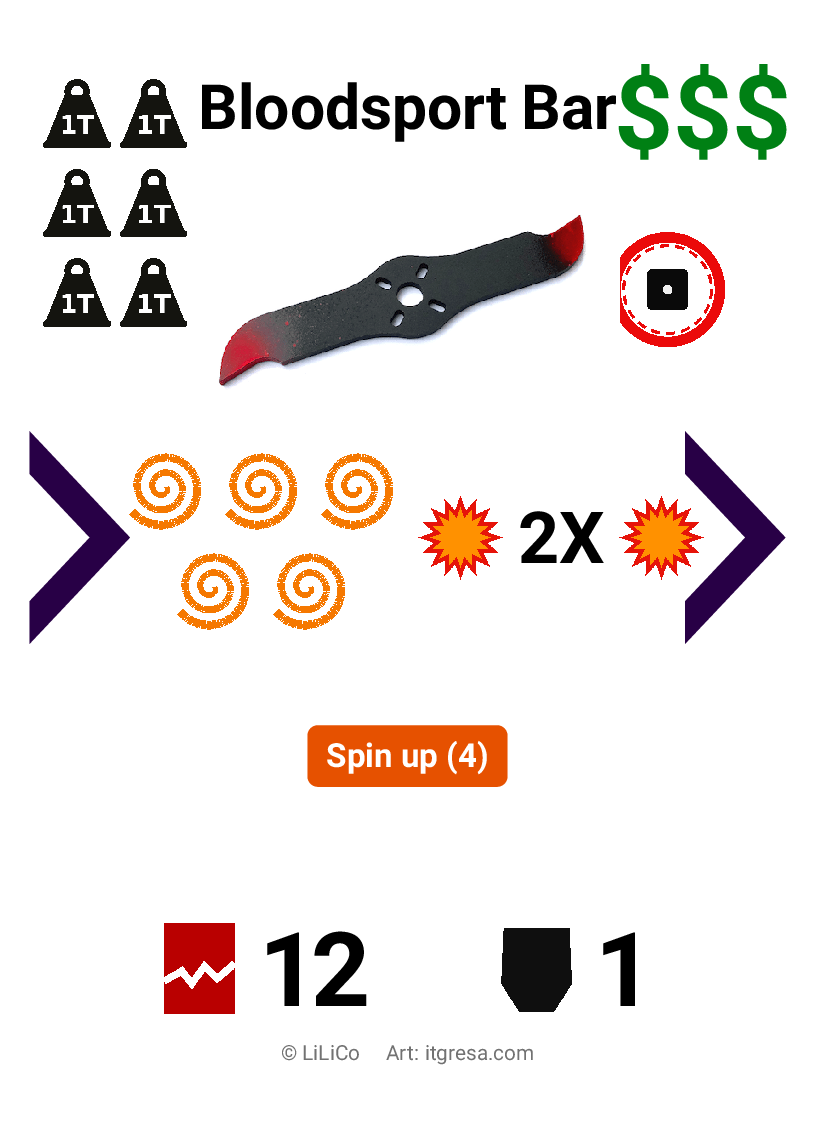
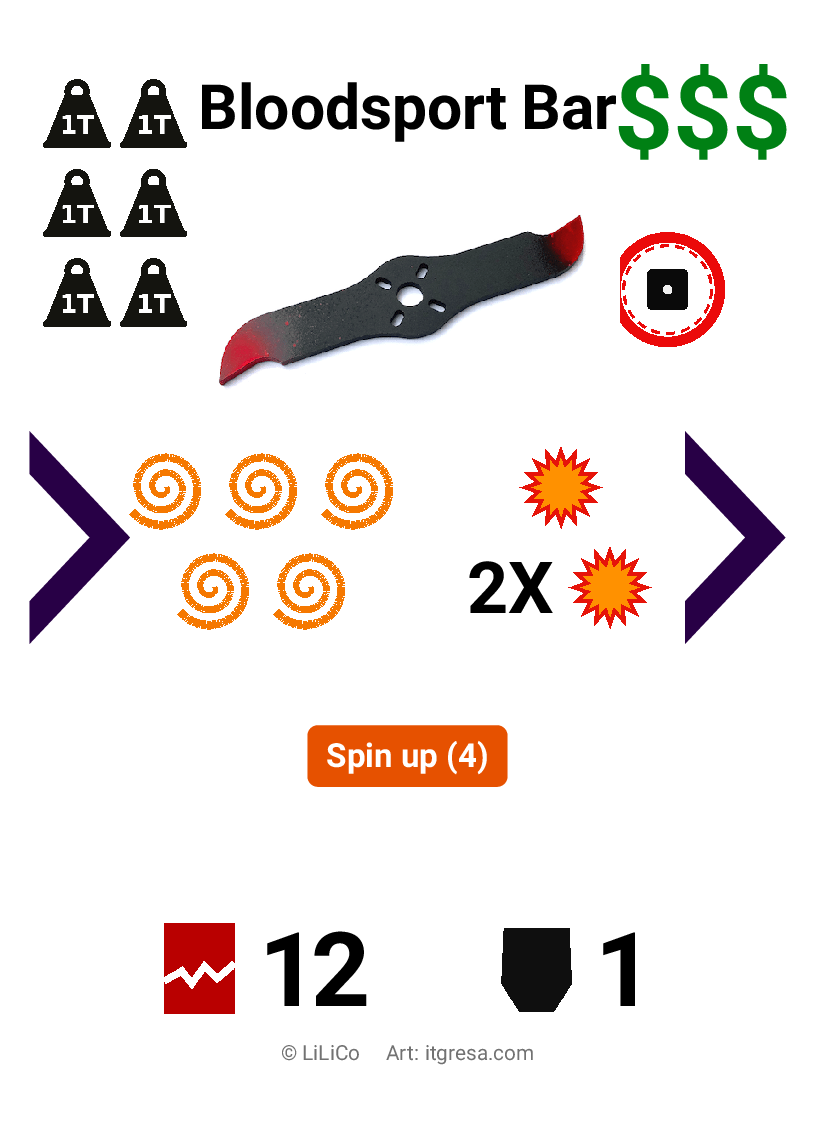
Draw pure symbols in row 1 and math plus symbol in row below them for additive resources

Changed region(s): [[0.5215, 0.4012, 0.8589, 0.5556]]

diff --git a/cardCreation/generateCards.py b/cardCreation/generateCards.py
@@ -149,7 +149,8 @@ def find_component_image(picture_field: str = "") -> str:
 
 def format_resource_item(prefix: str, char: str) -> str:
     """Formats a single resource item, repeated icons, or fixed + multiplier symbols."""
-    if prefix and all(c == char for c in prefix):
+    char = char.upper()
+    if prefix and all(c.upper() == char for c in prefix):
         count = len(prefix) + 1
         icons = [f"\\resource{char}" for _ in range(count)]
         if count <= 2:
@@ -162,23 +163,28 @@ def format_resource_item(prefix: str, char: str) -> str:
             row2 = r"\hspace{1.5pt}".join(icons[top_count:])
             return rf"\parbox{{2.5cm}}{{\centering {row1}\par\vspace{{1.5pt}}{row2}}}"
     elif prefix:
-        # Check if prefix contains an algebraic multiplier with fixed symbols (e.g. "2XW", "XWW", "XW")
-        # In notations like "2XWW", regex captures prefix="2XW", char="W".
-        # Fixed symbols should be visualized first, followed by multiplier symbols.
-        mult_match = re.match(r"^(\d*(?:XxX|XX|X|\d+x\d+))([ECSMWPD]*)$", prefix, re.IGNORECASE)
-        if mult_match:
-            mult_expr, extra_icons = mult_match.groups()
+        # Check if prefix contains an algebraic multiplier with fixed symbols, e.g.:
+        # - Multiplier before symbols (e.g. "2XW", "XWW", "XWWW" where char="W")
+        # - Symbols before multiplier (e.g. "W2X", "WWX" where char="W" as in "W2XW", "WWXW")
+        mult_after_match = re.match(r"^(\d*(?:XxX|XX|X|\d+x\d+))([ECSMWPD]*)$", prefix, re.IGNORECASE)
+        mult_before_match = re.match(r"^([ECSMWPD]+)(\d*(?:XxX|XX|X|\d+x\d+))$", prefix, re.IGNORECASE)
+
+        if mult_after_match or mult_before_match:
+            if mult_after_match:
+                mult_expr, extra_icons = mult_after_match.groups()
+            else:
+                extra_icons, mult_expr = mult_before_match.groups()
+
             if mult_expr.upper() == "XX":
                 mult_expr = "XxX"
             esc_mult = escape_latex(mult_expr)
             mult_element = rf"$\vcenter{{\hbox{{\sffamily\bfseries\LARGE {esc_mult}}}}}\;\vcenter{{\hbox{{\resource{char}}}}}$"
 
-            fixed_count = len(extra_icons) if all(c == char for c in extra_icons) else 0
+            fixed_count = len(extra_icons) if all(c.upper() == char for c in extra_icons) else 0
             if fixed_count == 0:
                 return mult_element
-            elif fixed_count == 1:
-                return rf"$\vcenter{{\hbox{{\resource{char}}}}}\;\vcenter{{\hbox{{\sffamily\bfseries\LARGE {esc_mult}}}}}\;\vcenter{{\hbox{{\resource{char}}}}}$"
             else:
+                # Additive symbols in top row, math plus symbol in the row below them
                 fixed_icons = [rf"\resource{char}" for _ in range(fixed_count)]
                 row1 = r"\hspace{1.5pt}".join(fixed_icons)
                 row2 = mult_element
@@ -199,9 +205,10 @@ def parse_resources(res_str: str) -> str:
     Rules from terminology.md:
       - Repeated letter (e.g. EE, CC, SSS) -> multiple icons drawn.
         Repeat symbols are placed closer together, spilling into two rows if count >= 3.
-      - Number or algebraic expression followed by letter (e.g. 4XW, 2XW, XE, 6W)
-        -> prefix rendered in sans-serif text vertically center-aligned with the icon.
-      - Fixed symbols followed by multiplier symbols (e.g. 2XWW -> 1 fixed W + 2X W, XWWW -> 2 fixed W + X W).
+      - Additive symbols and math (e.g. W2XW, 2XWW, XWW, XWWW) ->
+        Pure symbols drawn in row 1, math plus symbol drawn in row 2 below them.
+      - Multiplier alone (e.g. 2XW, XXW, XE, 6W) ->
+        Prefix rendered in sans-serif text vertically center-aligned with the icon in a single row.
       - Multiplier XX is rendered as XxX (X times X).
     """
     if not res_str:
@@ -211,17 +218,24 @@ def parse_resources(res_str: str) -> str:
     if not res_str:
         return ""
 
-    # Check for single token like "EE", "CC", "SSS", "4XW", "XE", "E", "PP", "DD", "2XWW", "XWWW"
-    match_expr = re.match(r"^([0-9]*[A-Za-z]*)([ECSMWPD])$", res_str)
+    # Normalize if it contains math (X or x) and optional + / spaces, all referring to same resource
+    # e.g. "W + 2XW" -> "W2XW", "2XW + W" -> "2XWW"
+    resource_chars = set(re.findall(r"[ECSMWPD]", res_str, re.IGNORECASE))
+    cleaned_str = res_str
+    if len(resource_chars) <= 1 and re.search(r"[Xx]", res_str):
+        cleaned_str = re.sub(r"[\s+]+", "", res_str)
+
+    # Check for single token like "EE", "CC", "SSS", "4XW", "XE", "E", "PP", "DD", "2XWW", "W2XW", "XWWW"
+    match_expr = re.match(r"^([0-9A-Za-z]*)([ECSMWPD])$", cleaned_str)
     if match_expr:
         prefix, char = match_expr.groups()
         return format_resource_item(prefix, char)
 
     # Multi-token strings
-    tokens = re.findall(r"([0-9]*[A-Za-z]*[ECSMWPD]|[A-Za-z0-9+]+)", res_str)
+    tokens = re.findall(r"([0-9A-Za-z]*[ECSMWPD]|[A-Za-z0-9+]+)", res_str)
     out_elements = []
     for tok in tokens:
-        submatch = re.match(r"^([0-9]*[A-Za-z]*)([ECSMWPD])$", tok)
+        submatch = re.match(r"^([0-9A-Za-z]*)([ECSMWPD])$", tok)
         if submatch:
             prefix, char = submatch.groups()
             out_elements.append(format_resource_item(prefix, char))

diff --git a/builder/tests/test_simulate_combat.py b/builder/tests/test_simulate_combat.py
@@ -229,20 +229,27 @@ class TestCombatSimulation(unittest.TestCase):
     def test_card_resource_rendering(self):
         from cardCreation.generateCards import parse_resources
 
-        # 2XWW -> 1 fixed W + 2X multiplier W
+        # 2XWW -> 1 fixed W in top row + 2X multiplier W in bottom row
         out_2xww = parse_resources("2XWW")
         self.assertIn(r"\resourceW", out_2xww)
         self.assertIn("2X", out_2xww)
+        self.assertIn(r"\parbox", out_2xww)
 
-        # XWW -> 1 fixed W + X multiplier W
+        # W2XW -> equivalent to 2XWW: 1 fixed W in top row + 2X multiplier W in bottom row
+        out_w2xw = parse_resources("W2XW")
+        self.assertEqual(out_w2xw, out_2xww)
+
+        # XWW -> 1 fixed W in top row + X multiplier W in bottom row
         out_xww = parse_resources("XWW")
         self.assertIn(r"\resourceW", out_xww)
         self.assertIn("X", out_xww)
+        self.assertIn(r"\parbox", out_xww)
 
-        # XWWW -> 2 fixed W + X multiplier W
+        # XWWW -> 2 fixed W in top row + X multiplier W in bottom row
         out_xwww = parse_resources("XWWW")
         self.assertIn(r"\resourceW\hspace{1.5pt}\resourceW", out_xwww)
         self.assertIn("X", out_xwww)
+        self.assertIn(r"\parbox", out_xwww)
 
         # XXW -> XxX multiplier W
         out_xxw = parse_resources("XXW")
